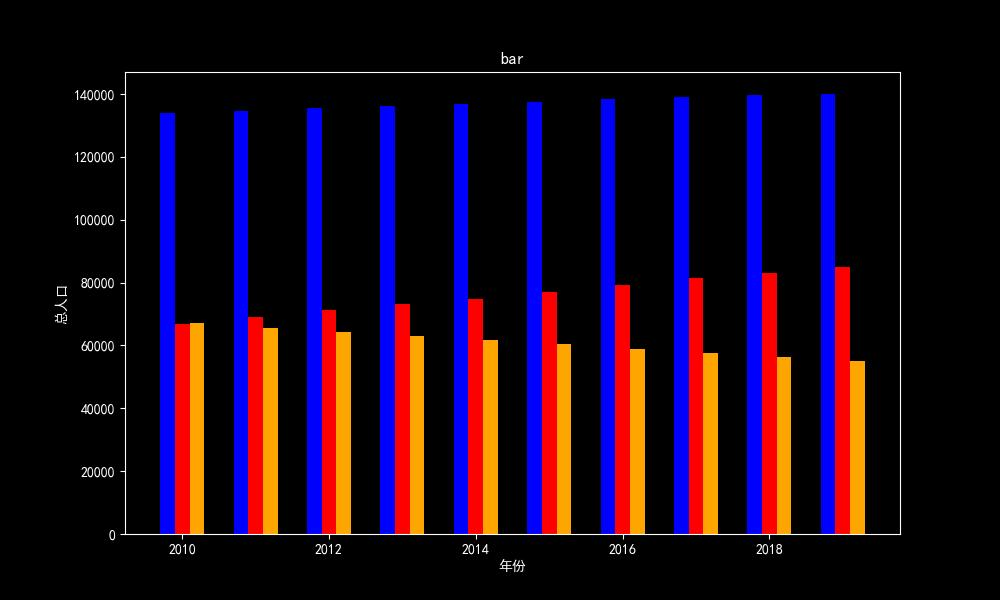
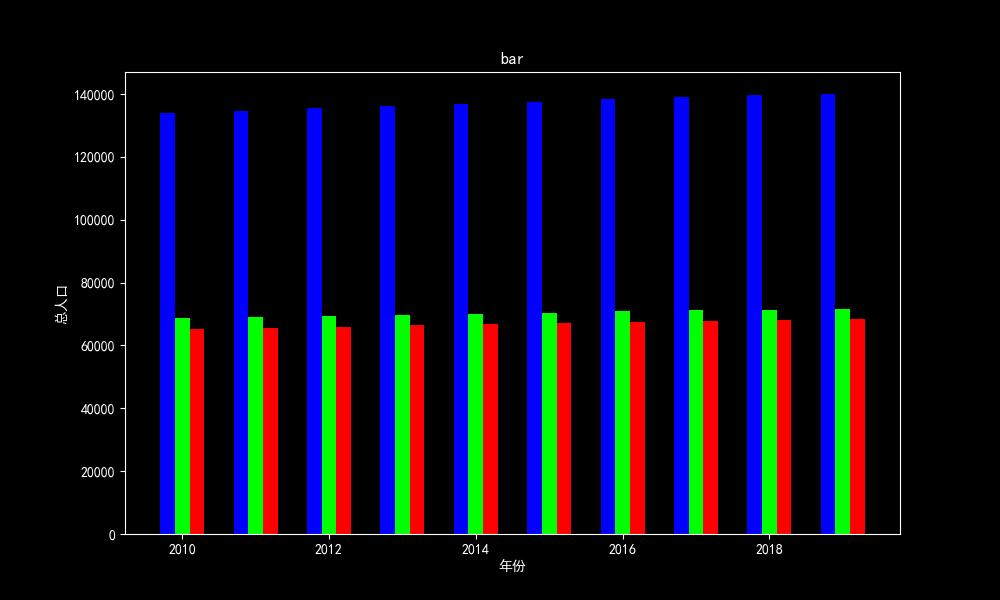
third

diff --git a/user/src/views/Home/HomeStyle.vue b/user/src/views/Home/HomeStyle.vue
@@ -13,9 +13,39 @@
         
       </div>
       <div>
-        <el-row><h3>作图的样式</h3></el-row>
+        <el-row v-show="$store.state.mode != ''"><h3>作图的样式</h3></el-row>
+        <table v-show="$store.state.mode == mIndex" v-for="(m,mIndex) in style" :key="mIndex">
+          <tr v-for="(i,iIndex) in m" :key="iIndex">
+
+            <td v-if="mIndex == 'scatter'">散点：</el-td>
+            <td v-if="mIndex == 'plot'">线{{iIndex+1}}：</td>
+            <td v-if="mIndex == 'bar'">柱{{iIndex+1}}：</td>
+            
+            <td v-for="(j,jIndex) in i" :key="jIndex">
+              <div v-if="jIndex.substr(jIndex.length-5,jIndex.length) == 'color'">
+                {{j.iid}}
+                <el-color-picker v-model="j.val"></el-color-picker>
+              </div>
+
+              <div v-if="jIndex.substr(jIndex.length-5,jIndex.length) != 'color' && jIndex.substr(jIndex.length-5,jIndex.length) != 'width'">
+                {{j.iid}}
+                <el-select v-model="j.val.isSl">
+                  <el-option :value="opt.iid" :label="opt.text" v-for="(opt, optIndex) in j.val.opt" :key="optIndex"></el-option>
+                </el-select>
+              </div>
+
+              <div v-if="jIndex.substr(jIndex.length-5,jIndex.length) == 'width'">
+                <el-col :span="6">{{j.iid}}</el-col>
+                <el-col :span="8"><el-input v-model="j.val" size="mini" @input="checkWid($event,iIndex)" ></el-input></el-col>
+              </div>
+
+            </td>
+          </tr>
+        </table>
       </div>
     </div>
+
+    
   </div>
 </template>
 
@@ -31,19 +61,97 @@ export default {
         xLabel: {iid:'X轴：',val:['']},
         yLabel: {iid:'Y轴：',val:['']},
         legend: {iid:'图例：',val:[''],useLegend: false},
+      },
+      style: {
+        scatter: [
+          {
+            color: {iid:'颜色：',val:'#ffffff'},
+            marker: {iid:'点型：',val:{isSl: 'o',opt:[
+              {iid:'o',text:'圆点'},
+              {iid:'.',text:'小点'},
+              {iid:'s',text:'正方形'},
+              {iid:'p',text:'五角形'},
+              {iid:'*',text:'*'},
+            ]}}
+          },
+        ],
+        plot: [{
+            color: {iid:'颜色：',val:'#ffffff'},
+            ilnestyle: {iid:'线型：',val:{isSl: '-',opt:[
+              {iid:'-',text:'实线'},
+              {iid:'--',text:'虚线'},
+              {iid:'-.',text:'点线'},
+            ]}},
+            marker: {iid:'点型：',val:{isSl: 'default',opt:[
+              {iid:'default',text:'不使用'},
+              {iid:'.',text:'实点'},
+              {iid:'o',text:'圆形'},
+
+            ]}},
+            linewidth: {iid:'线宽：',val:'1'}
+          }],
+        bar: [{
+            color: {iid:'颜色：',val:'#00f'},
+            barwidth: {iid:'柱宽：',val:'0.8'},
+          }],
       }
     }
   },
+  
   methods:{
     clickDropdown(){
       this.isDropdown = !this.isDropdown
+    },
+    checkWid(e,i){
+      if(e[e.length-1] < '0' || e[e.length-1] > '9')
+        this.style.plot[i].linewidth.val = this.style.plot[i].linewidth.val.substr(0,this.style.plot[i].linewidth.val.length-1)
     }
   },
   mounted(){
     EventBus.$on('chartChange',(title)=>{
       this.desc.yLabel = {iid: 'Y轴：',val:[this.desc.yLabel.val[0]]}
-      this.desc.legend = {iid: '图例：',val:[this.desc.legend.val[0]]}
+      this.desc.legend = {iid: '图例：',val:[this.desc.legend.val[0]],useLegend: false}
       this.desc.title.val[0] = title
+
+      this.style = {
+        scatter: [
+          {
+            color: {iid:'颜色：',val:'#ffffff'},
+            marker: {iid:'点型：',val:{isSl: 'o',opt:[
+              {iid:'o',text:'圆点'},
+              {iid:'.',text:'小点'},
+              {iid:'s',text:'正方形'},
+              {iid:'p',text:'五角形'},
+              {iid:'*',text:'*'},
+            ]}}
+          },
+        ],
+        plot: [{
+            color: {iid:'颜色：',val:'#ffffff'},
+            ilnestyle: {iid:'线型：',val:{isSl: '-',opt:[
+              {iid:'-',text:'实线'},
+              {iid:'--',text:'虚线'},
+              {iid:'-.',text:'点线'},
+            ]}},
+            marker: {iid:'点型：',val:{isSl: 'default',opt:[
+              {iid:'default',text:'不使用'},
+              {iid:'.',text:'实点'},
+              {iid:'o',text:'圆形'},
+
+            ]}},
+            linewidth: {iid:'线宽：',val:'1'}
+          },
+          
+          
+        ],
+        bar: [{
+            color: {iid:'颜色：',val:'#00f'},
+            barwidth: {iid:'柱宽：',val:'0.8'},
+          },
+          
+          
+        ],
+      }
     })
     EventBus.$on('xyChange',(xy)=>{
       if(xy.xy == 'X轴：')  Vue.set(this.desc.xLabel.val,xy.sum-1,xy.isSl)
@@ -54,22 +162,61 @@ export default {
     })
     EventBus.$on('addY',()=>{
       this.desc.legend.val.push('')
+      if(this.$store.state.mode == 'plot'){
+        this.style['plot'].push({
+            color: {iid:'颜色：',val:'#ffffff'},
+            ilnestyle: {iid:'线型：',val:{isSl: '-',opt:[
+              {iid:'-',text:'实线'},
+              {iid:'--',text:'虚线'},
+              {iid:'-.',text:'点线'},
+            ]}},
+            marker: {iid:'点型：',val:{isSl: 'default',opt:[
+              {iid:'default',text:'不使用'},
+              {iid:'.',text:'实点'},
+              {iid:'o',text:'圆形'},
+
+            ]}},
+            linewidth: {iid:'线宽：',val:'1'}
+          })
+      }
+      else if(this.$store.state.mode == 'bar'){
+        let c = this.style['bar'].length == 2 ? '#f00' : '#0f0'
+        this.style['bar'].push({
+            color: {iid:'颜色：',val: c},
+            barwidth: {iid:'柱宽：',val:'0.8'},
+          })
+      }
+      
     })
     EventBus.$on('redY',()=>{
       this.desc.legend.val.pop()
+      this.style[this.$store.state.mode].pop()
     })
   },
   watch:{
     'desc': {
       deep: true,
+      immediate: true,
       handler(){
         this.$store.commit({
           type: 'updateHomeMain',
           key: 'desc',
           value: this.desc
         })
+        
       }
 
+    },
+    'style': {
+      deep: true,
+      immediate: true,
+      handler(){
+        this.$store.commit({
+          type: 'updateHomeMain',
+          key: 'style',
+          value: this.style
+        })
+      }
     }
   }
   
@@ -97,6 +244,12 @@ export default {
   height: 50px;
   line-height: 50px;
  
+}
+
+td {
+  padding: 8px;
+  height: 60px;
+  line-height: 60px;
 }
 
 </style>

diff --git a/user/src/views/Home/HomeSubmit.vue b/user/src/views/Home/HomeSubmit.vue
@@ -56,7 +56,17 @@ export default {
           }
           for(let i of this.$store.state.xt.xtStr)  xtArr.push(i.text)
           for(let i of this.$store.state.yt.ytStr)  ytArr.push(i.text)
-
+          let style = {scatter:[],plot:[],bar:[],pie:[]}
+          for(let i in this.$store.state.style){
+            for(let j in this.$store.state.style[i]){
+              style[i].push([])
+              for(let k in this.$store.state.style[i][j]){
+                if(typeof this.$store.state.style[i][j][k].val == 'object') style[i][j].push(this.$store.state.style[i][j][k].val.isSl)
+                else style[i][j].push(this.$store.state.style[i][j][k].val)
+              }
+            }
+          }
+          
           const submitData = {
             filePath: this.$store.state.fd.filePath,
             mode: this.$store.state.mode,
@@ -68,7 +78,8 @@ export default {
             gro: this.$store.state.gro,
             xt: xtArr,
             yt: ytArr,
-            desc:this.$store.state.desc
+            desc:this.$store.state.desc,
+            style
           }
           
 

diff --git a/user/src/views/Home/HomeMain.vue b/user/src/views/Home/HomeMain.vue
@@ -134,7 +134,7 @@ export default {
       },
       addPlotY() {
         let sum = this.xy.y.sel.sum + 1;
-        if (sum <= 5) {
+        if (sum <= 5 && this.$store.state.mode == 'plot' || sum <= 3 && this.$store.state.mode == 'bar') {
           this.xy.y.sel.sum = sum;
           this.xy.y.sel.isSl.push('');
           this.calculateNewColumn.push({ str: "", isShow: false });

diff --git a/user/src/store/index.js b/user/src/store/index.js
@@ -46,12 +46,8 @@ const store = new Vuex.Store({
         {iid:'4',text:''},
       ],
     },
-    desc:{
-      title: {iid:'标题：',val:['']},
-      xLabel: {iid:'X轴：',val:['']},
-      yLabel: {iid:'Y轴：',val:['']},
-      legend: {iid:'图例：',val:[''],useLegend: false},
-    },
+    desc:{},
+    style:{},
     
     imgURL: '#'
     

diff --git a/user/src/assets/css/global.less b/user/src/assets/css/global.less
@@ -13,6 +13,7 @@
 .el-select {
   color: #fff;
   background-color: @bgc;
+  
 }
 .el-select-dropdown,
 .el-select-dropdown__item,
@@ -44,4 +45,9 @@
 .el-checkbox__label {
   color: #fff;
   background-color: @bgc;
+}
+
+
+td .el-select {
+  width: 100px;
 }

diff --git a/server/py/1.py b/server/py/1.py
@@ -141,35 +141,60 @@ if mode != 'pie':
 
 #画图--------------------------------------------#
 
-
 #散点图
 
 if mode == 'scatter':
-  plt.scatter(xd[0], yd[0], label=desc['legend']['val'][0])
+  plt.scatter(xd[0], yd[0], label=desc['legend']['val'][0],
+             color=jsonData['style']['scatter'][0][0],
+             marker=jsonData['style']['scatter'][0][1])
 #折线图
+
 elif mode == 'plot':
   for i in range(0,len(yd)):
-    plt.plot(xd[0],yd[i], label=desc['legend']['val'][i])
+    if jsonData['style']['plot'][i][2] == 'default':
+      jsonData['style']['plot'][i][2] = ''
+    if jsonData['style']['plot'][i][3] == '' or jsonData['style']['plot'][i][3] == '0':
+      jsonData['style']['plot'][i][3] = '1' 
+    for s in jsonData['style']['plot'][i][3]:
+      if s < '0' or s > '9':
+        jsonData['style']['plot'][i][3] = '1'
+        break
+    
+    
+    plt.plot(xd[0],yd[i], label=desc['legend']['val'][i],
+            color=jsonData['style']['plot'][i][0],
+            linestyle=jsonData['style']['plot'][i][1],
+            marker=jsonData['style']['plot'][i][2],
+            linewidth=int(jsonData['style']['plot'][i][3])
+            
+            )
 #柱状图
 elif mode == 'bar':
   if len(yd) == 1 :
-    plt.bar(xd[0], yd[0],color="blue", label=desc['legend']['val'][0])
+    plt.bar(xd[0], yd[0], label=desc['legend']['val'][0],
+           color=jsonData['style']['bar'][0][0] )
+    
 
   elif len(yd) == 2 :
     wid=4/xd[0].size
-    plt.bar(xd[0]-wid/2, yd[0],color='blue',width=wid, label=desc['legend']['va;'][0])
-    plt.bar(xd[0]+wid/2, yd[1],color='red',width=wid, label=desc['legend']['val'][1])
+    plt.bar(xd[0]-wid/2, yd[0],width=wid, label=desc['legend']['val'][0],
+           color=jsonData['style']['bar'][0][0])
+    plt.bar(xd[0]+wid/2, yd[1],width=wid, label=desc['legend']['val'][1],
+            color=jsonData['style']['bar'][1][0])
   elif len(yd) == 3 :
     wid=2/xd[0].size
-    plt.bar(xd[0]-wid, yd[0],width=wid,color='blue', label=desc['legend']['val'][0])
-    plt.bar(xd[0], yd[1],width=wid,color='red', label=desc['legend']['val'][1])
-    plt.bar(xd[0]+wid, yd[2],width=wid,color='orange', label=desc['legend']['val'][2])
+    plt.bar(xd[0]-wid, yd[0],width=wid, label=desc['legend']['val'][0],
+            color=jsonData['style']['bar'][0][0])
+    plt.bar(xd[0], yd[1],width=wid, label=desc['legend']['val'][1],
+            color=jsonData['style']['bar'][1][0])
+    plt.bar(xd[0]+wid, yd[2],width=wid, label=desc['legend']['val'][2],
+            color=jsonData['style']['bar'][2][0])
 # elif mode == 'pie':
   # pieData = data[cutName].value_counts()
   # plt.pie(x=pieData,labels=pieData.index)
 
 
-if desc['legend']['useLegend']:
+if jsonData['desc']['legend']['useLegend']:
   plt.legend() 
 savePath='./public/'+mode+'.jpg'
 plt.savefig(savePath)
